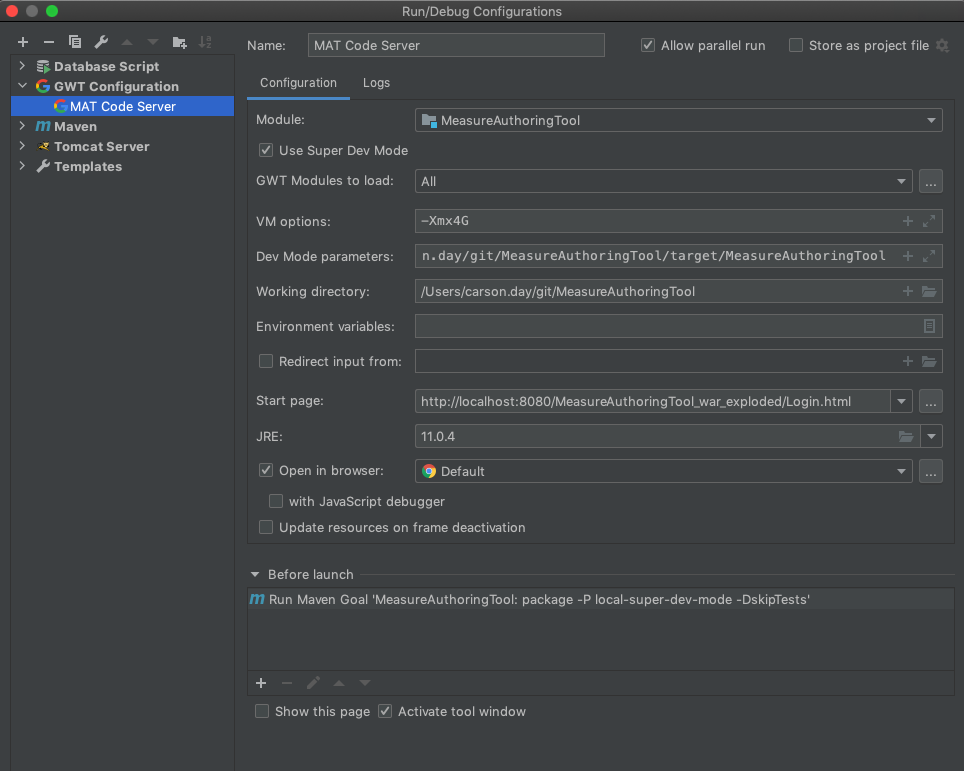
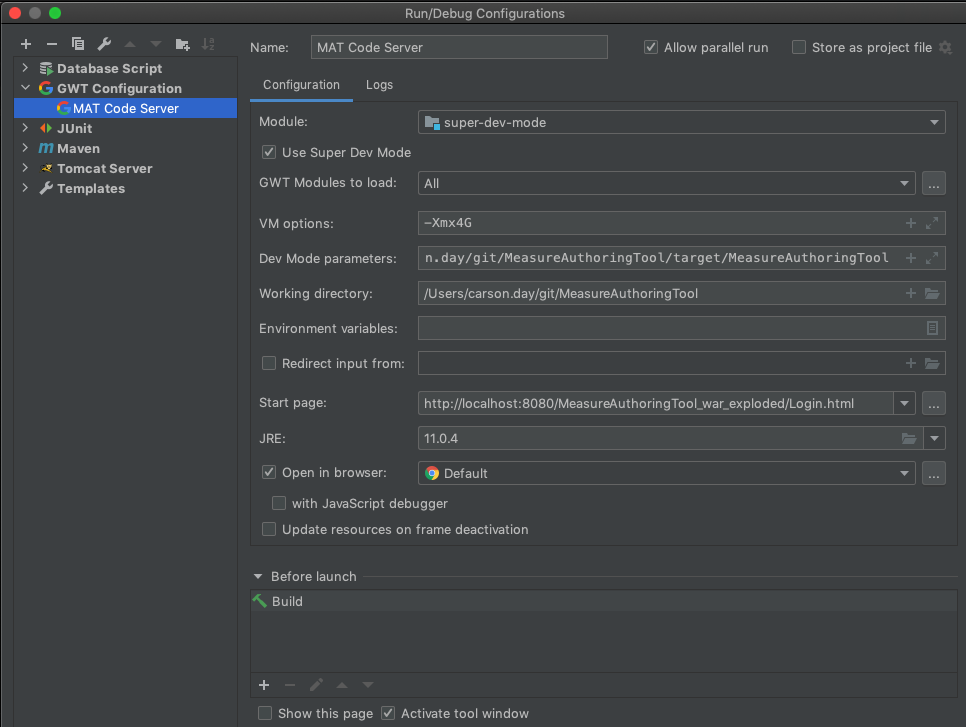
BUGFIX Updated readme for GWT super dev mode.

diff --git a/README.md b/README.md
@@ -110,11 +110,7 @@ are written for intellij.
 - Install the GWT intellij plugin.
 - Go to Edit Configurations ![](docs/images/EditConfig.png "Title")
 - Click the + in the top left and add a tomcat server. ![](docs/images/AddTomcatServer.png "Title")
-- Here is how I have mine setup. ![](docs/images/TomcatConfig.png "Title")
-  - Remove build and add in mvn command:
-  ```text
-  clean package -DskipTests
-   ```
+- Here is how I have mine setup. ![](docs/images/TomcatConfig.png "Titl
   - Paste in the following for VM options: Replace https://dev-980994.okta.com with your okta user you created above.
  ```text
 -DENVIRONMENT=DEV
@@ -165,7 +161,6 @@ To compile faster you can make these changes, but *DO NOT* check them in.
 ```
 
 1. Select Mat Code Server and start it up. 
-  **The MAT Tomcat server can't be running when you start the code server.**
 3. Select Mat Tomcat and start it up.     (wait until the server starts)
 4. A browser should pop up and you are off and running in super dev mode.
 5. Go to http://localhost:9876/
